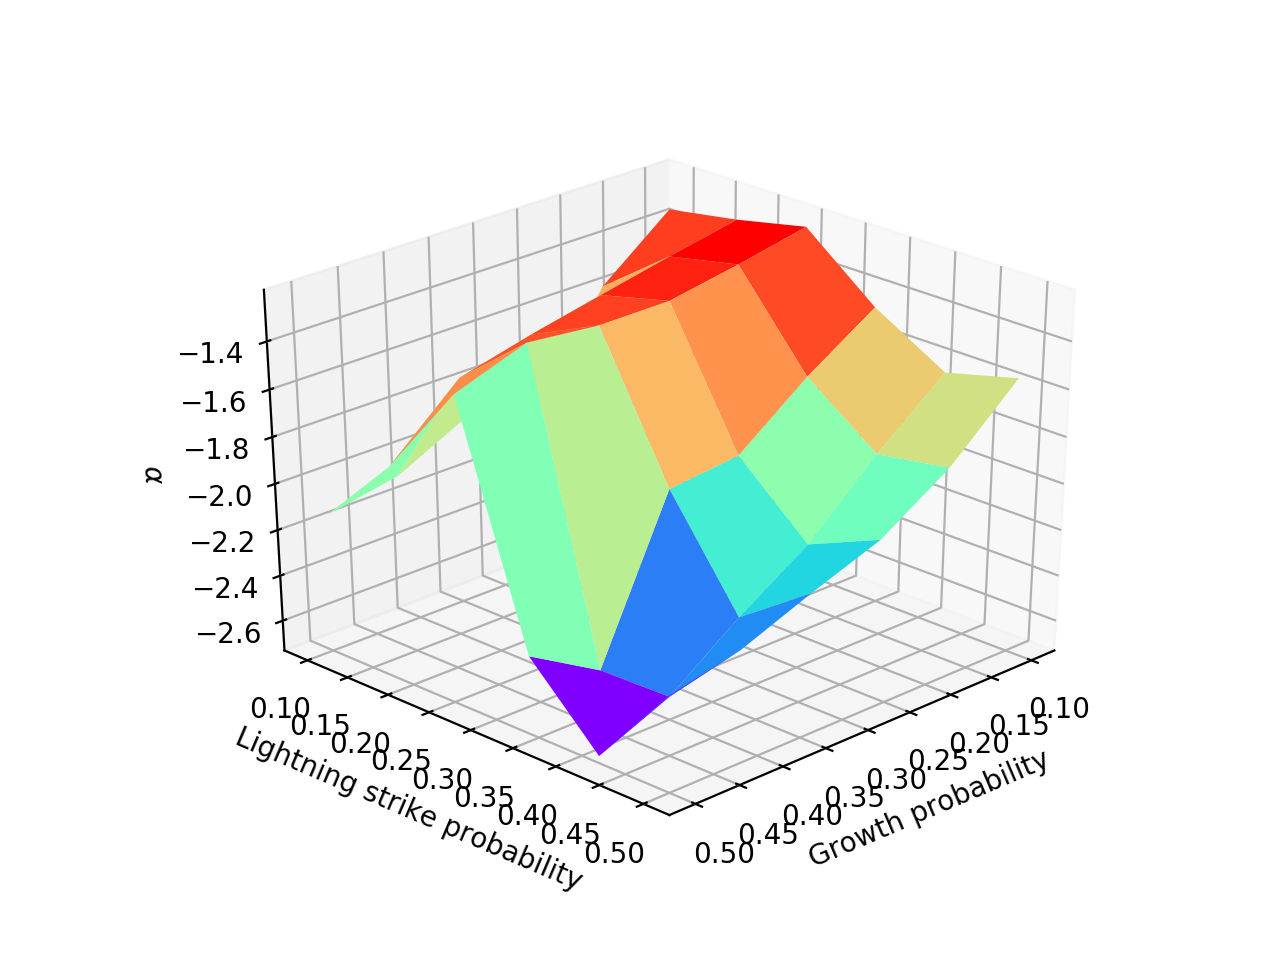
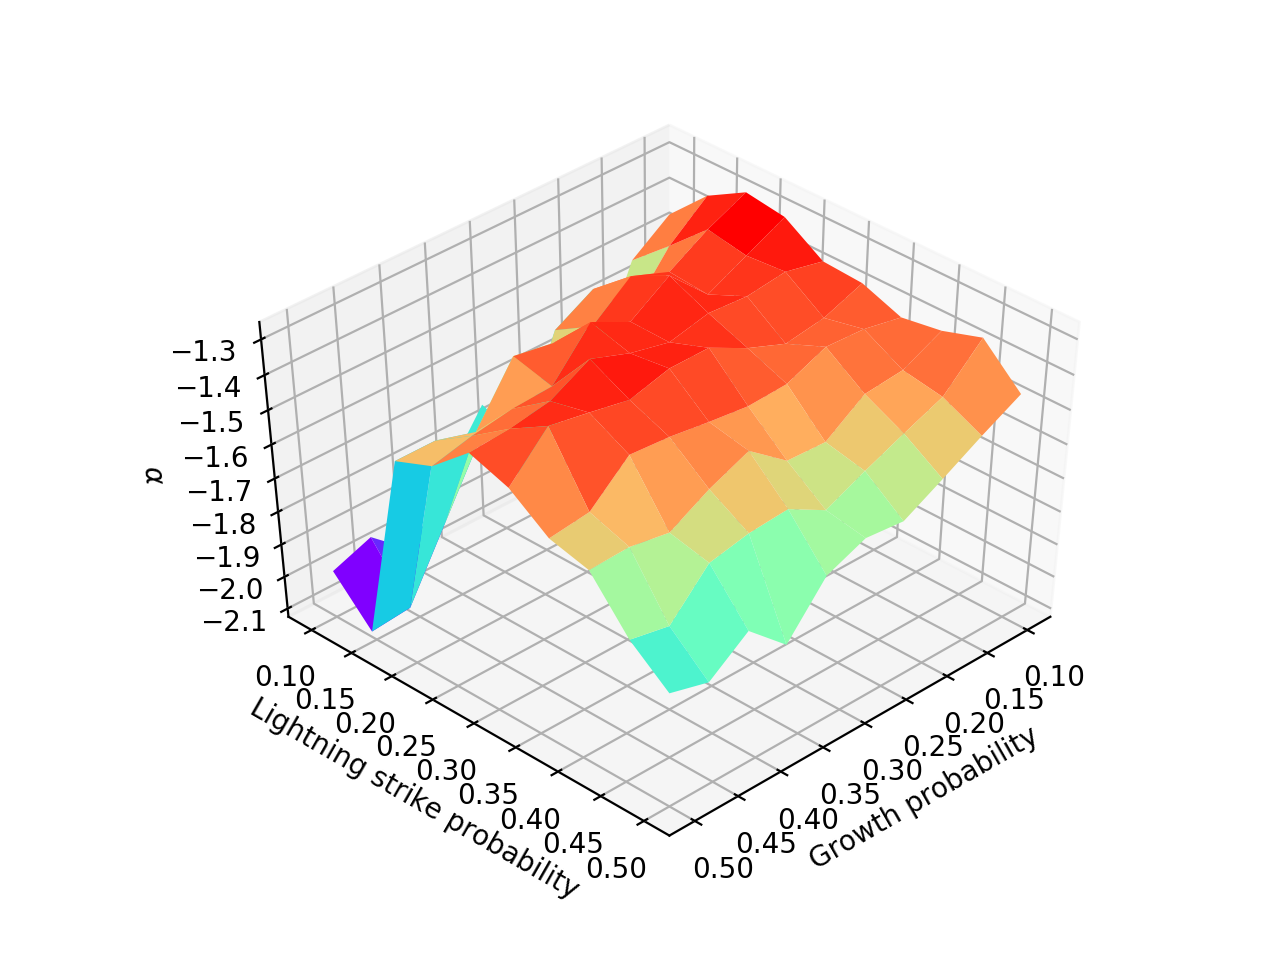
Plots

Changed region(s): [[0.125, 0.1562, 0.8438, 0.9375], [0.5, 0.125, 0.5312, 0.1562]]

diff --git a/tasks/task4/4_5.py b/tasks/task4/4_5.py
@@ -8,7 +8,7 @@ from treeSim import treeSimulation
 def optimize(g, f, name=False, save=False):
     iterate, getFireCatched, getGrid = treeSimulation(40, g, f)
 
-    for i in range(450):
+    for i in range(5):
         iterate()
 
     n, bins = np.histogram(getFireCatched(), 25)
@@ -56,7 +56,7 @@ fireProbabilities = np.linspace(0.1, 0.5, nvals)
 X, Y = np.meshgrid(growthProbabilities, fireProbabilities)
 Z = np.zeros_like(X)
 
-N = 5
+N = 1
 
 for i in range(0, len(growthProbabilities)):
     for j in range(0, len(fireProbabilities)):
